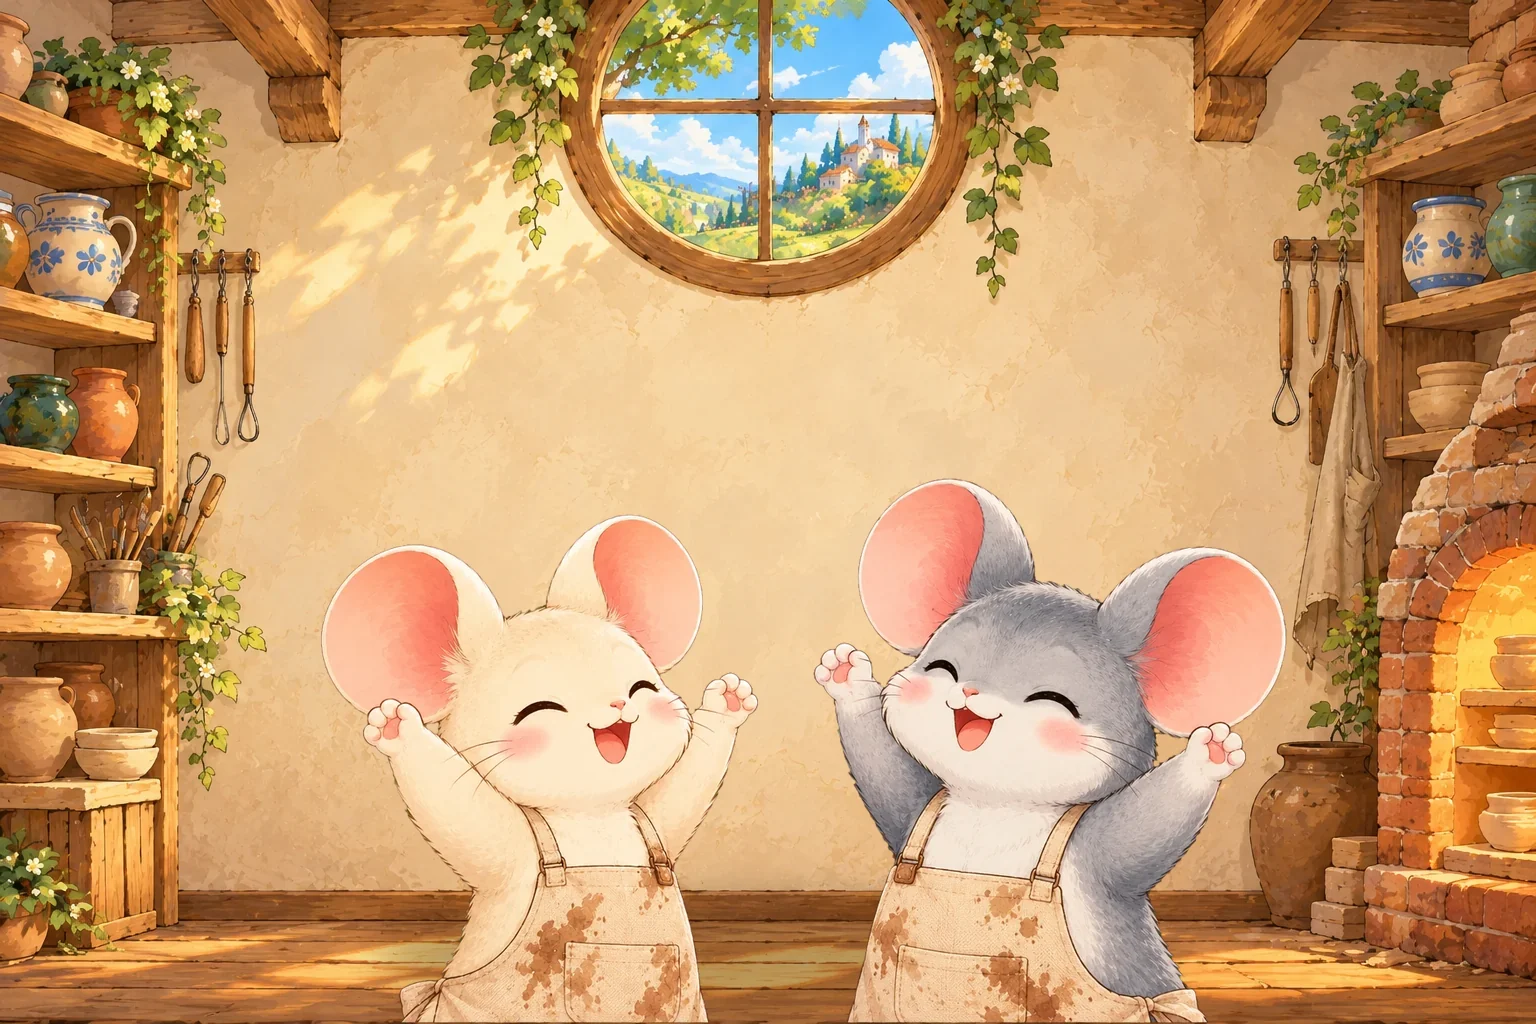
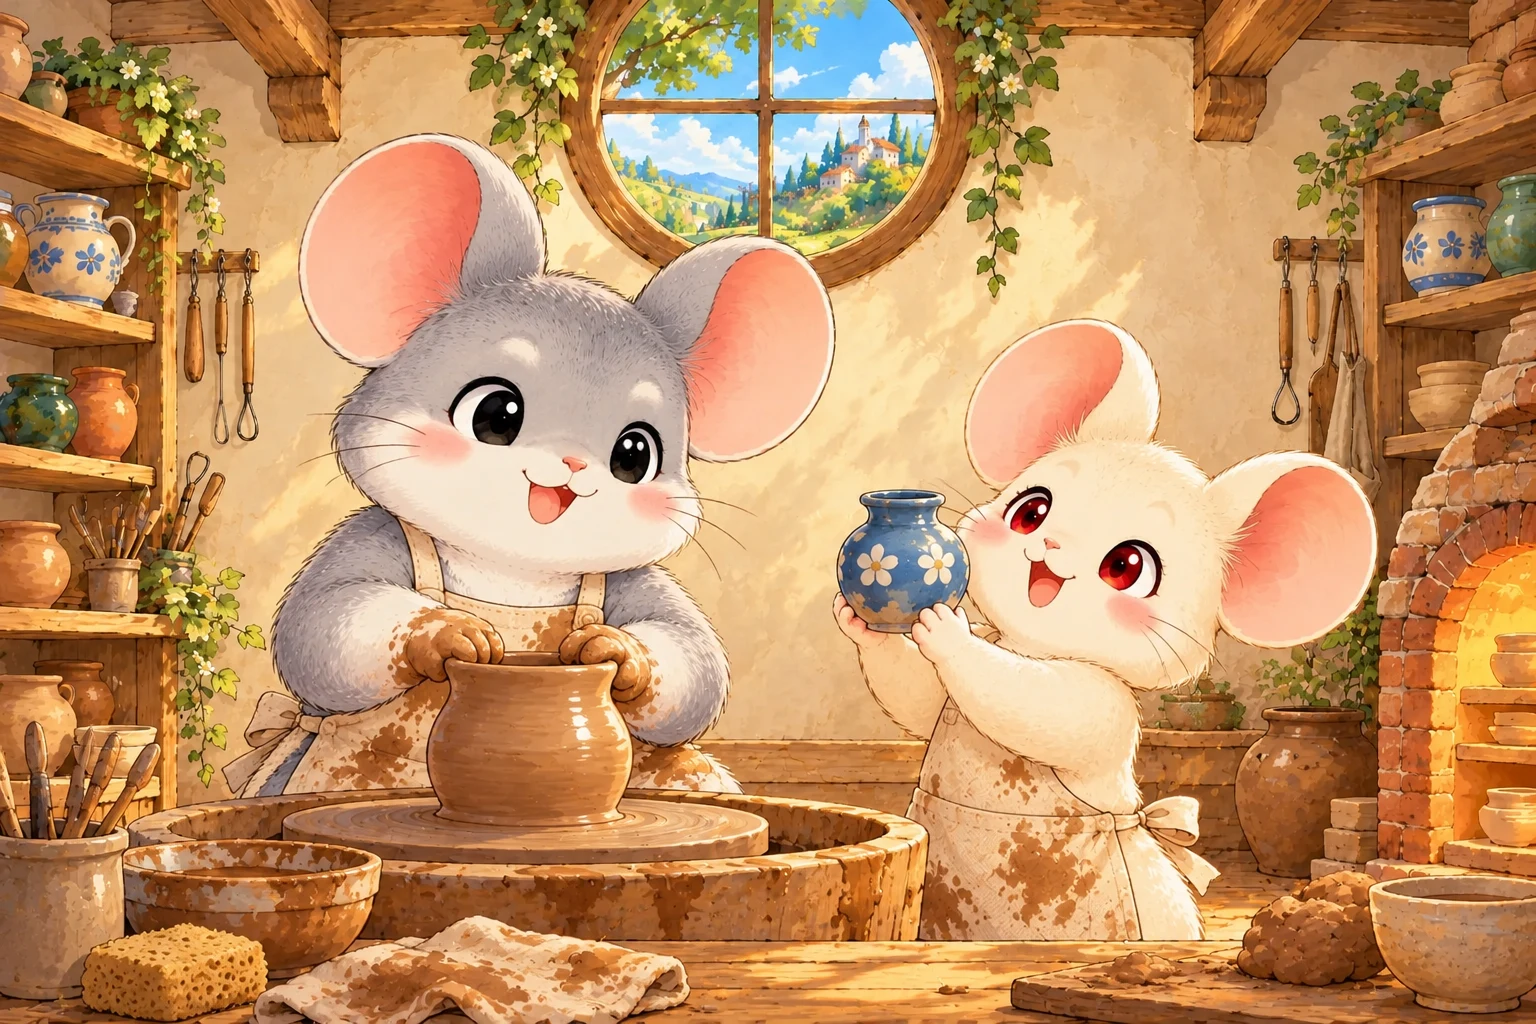
Kiln & Clay: a painted title, and Mrs Prickle joins the picnic ending

diff --git a/docs/pottery-art-brief.md b/docs/pottery-art-brief.md
@@ -43,4 +43,4 @@ The green is keyed out with Pillow (a soft edge and green despill) and each figu
 
 ## What shipped
 
-Every painting above was made except the title: the image tool timed out on it three times, the last with a much simpler prompt, so `title.webp` is put together from the workshop backdrop with the cheering Dora and Enzo cut-outs in front. The ending was also simplified after two time-outs: Dora and Enzo's picnic with the tea set, without the neighbours. `kiln.webp` is cropped so the kiln door sits in the middle of the frame, where the game draws the pots.
+Every painting above was made. The title timed out three times on 30-10-2026 and was first put together from the workshop backdrop and the cut-outs; it was painted properly on 31-10-2026. The full picnic with all seven neighbours timed out again, so the ending (also repainted on 31-10-2026) shows Dora and Enzo sharing tea with Mrs Prickle the hedgehog. `kiln.webp` is cropped so the kiln door sits in the middle of the frame, where the game draws the pots.

diff --git a/CHANGELOG.md b/CHANGELOG.md
@@ -13,6 +13,7 @@ Notable changes to Dora & Enzo's Arcade, newest first. Every push to `main` depl
 ### Changed
 
 - **Twig & Twine**: when a bridge drops them in the water or the stream, Dora and Enzo now sit dripping and dismayed in their acorn cart, pond weed on Enzo's ear, in a new painting; a tumble into the canyon's dust has them covering their eyes.
+- **Kiln & Clay**: a new title painting of Enzo at the wheel and Dora holding up a freshly glazed vase, and the picnic ending now has Mrs Prickle the hedgehog sharing tea with them.
 
 ## 30-10-2026
 
